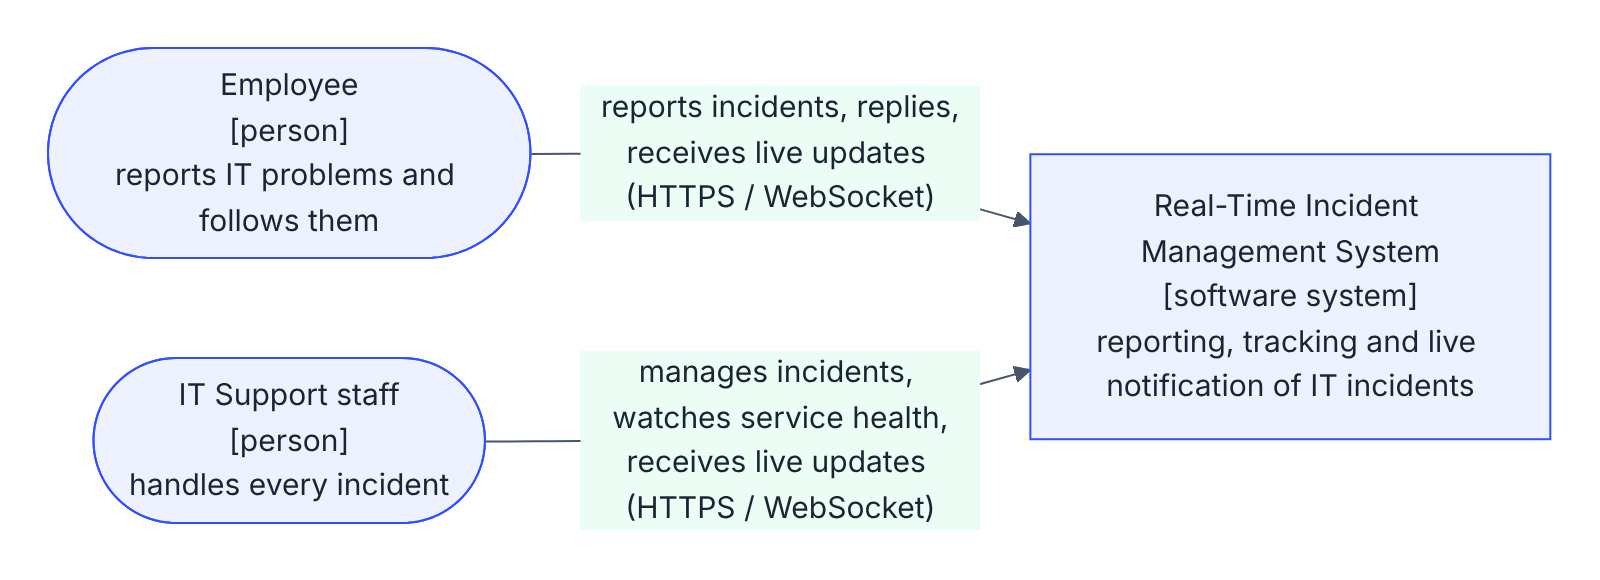
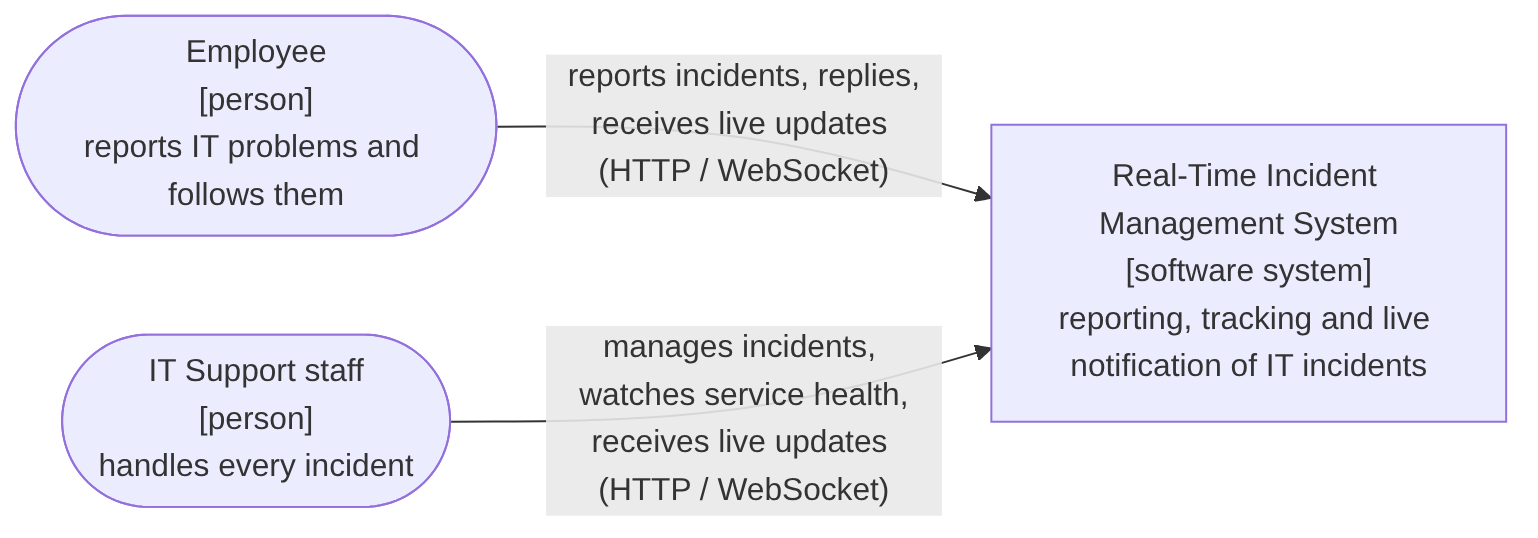
Docs: name the view of the index diagram, use HTTP in the context view

diff --git a/project/docs/README.md b/project/docs/README.md
@@ -6,7 +6,7 @@ A microservice-based web application for reporting, tracking and resolving IT in
 | Page | Contents |
 |---|---|
 | [01 Overview](01-overview.md) | What the system does, course requirements, services, use cases, technology |
-| [02 Architecture](02-architecture.md) | Component, internal-communication and deployment views, code organization, security model |
+| [02 Architecture](02-architecture.md) | Container (C4 level 2) and component (C4 level 3) views, internal communication, deployment view, code organization, security model |
 | [03 Communication](03-communication.md) | Real-time flows, login, status changes, SignalR groups, monitoring, failure behaviour |
 | [04 Data model](04-data-model.md) | Data owned by each service, message contracts, validation rules |
 | [05 API reference](05-api-reference.md) | Gateway routing, every endpoint with access rules, SignalR events, curl examples |
@@ -15,6 +15,8 @@ A microservice-based web application for reporting, tracking and resolving IT in
 
 All diagrams are written in **Mermaid** and rendered directly by GitHub. Their sources (`.mmd`) and exported
 images (`.png`) are in [`diagrams/`](diagrams/).
+
+Container view (C4 level 2): the deployable parts of the system and how the browser reaches them.
 
 ```mermaid
 flowchart TB

diff --git a/project/docs/01-overview.md b/project/docs/01-overview.md
@@ -50,8 +50,8 @@ flowchart LR
     it(["IT Support staff<br/>[person]<br/>handles every incident"])
     system["Real-Time Incident Management System<br/>[software system]<br/>reporting, tracking and live notification of IT incidents"]
 
-    employee -- "reports incidents, replies,<br/>receives live updates (HTTPS / WebSocket)" --> system
-    it -- "manages incidents, watches service health,<br/>receives live updates (HTTPS / WebSocket)" --> system
+    employee -- "reports incidents, replies,<br/>receives live updates (HTTP / WebSocket)" --> system
+    it -- "manages incidents, watches service health,<br/>receives live updates (HTTP / WebSocket)" --> system
 ```
 
 <sub>Source: [`diagrams/00-c4-context.mmd`](diagrams/00-c4-context.mmd) · Image: [`diagrams/00-c4-context.png`](diagrams/00-c4-context.png)</sub>
